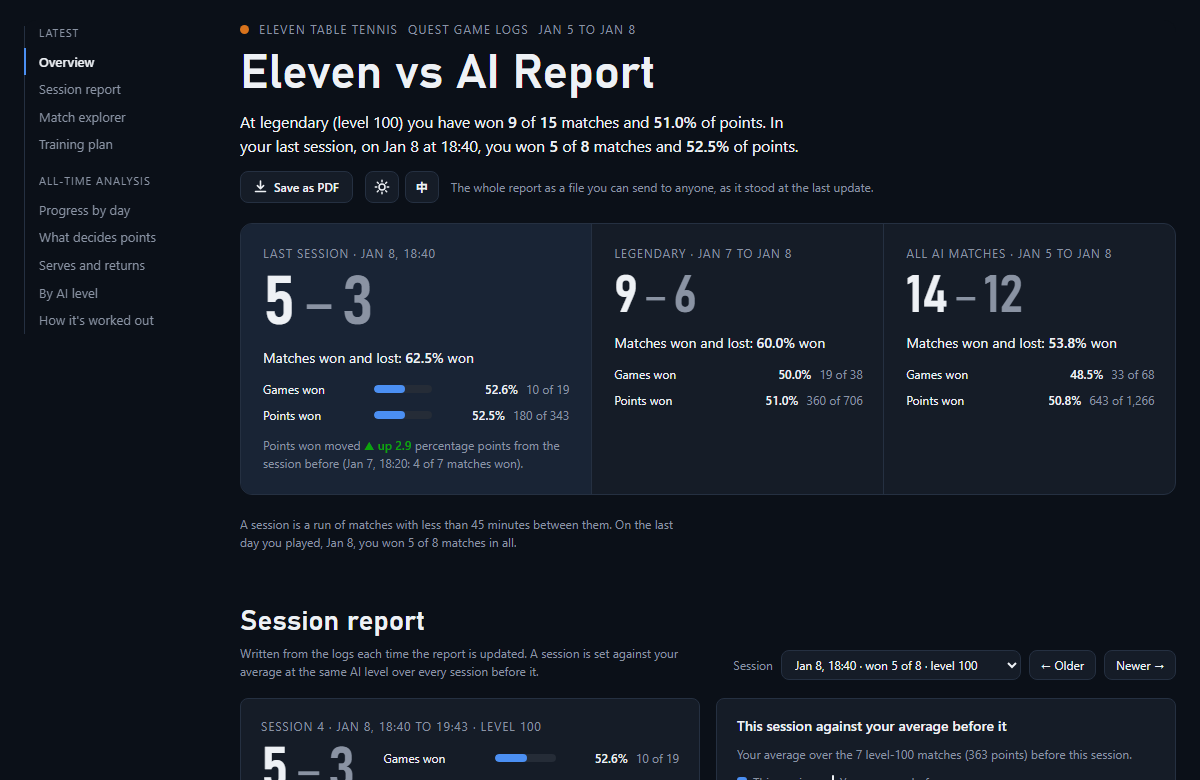
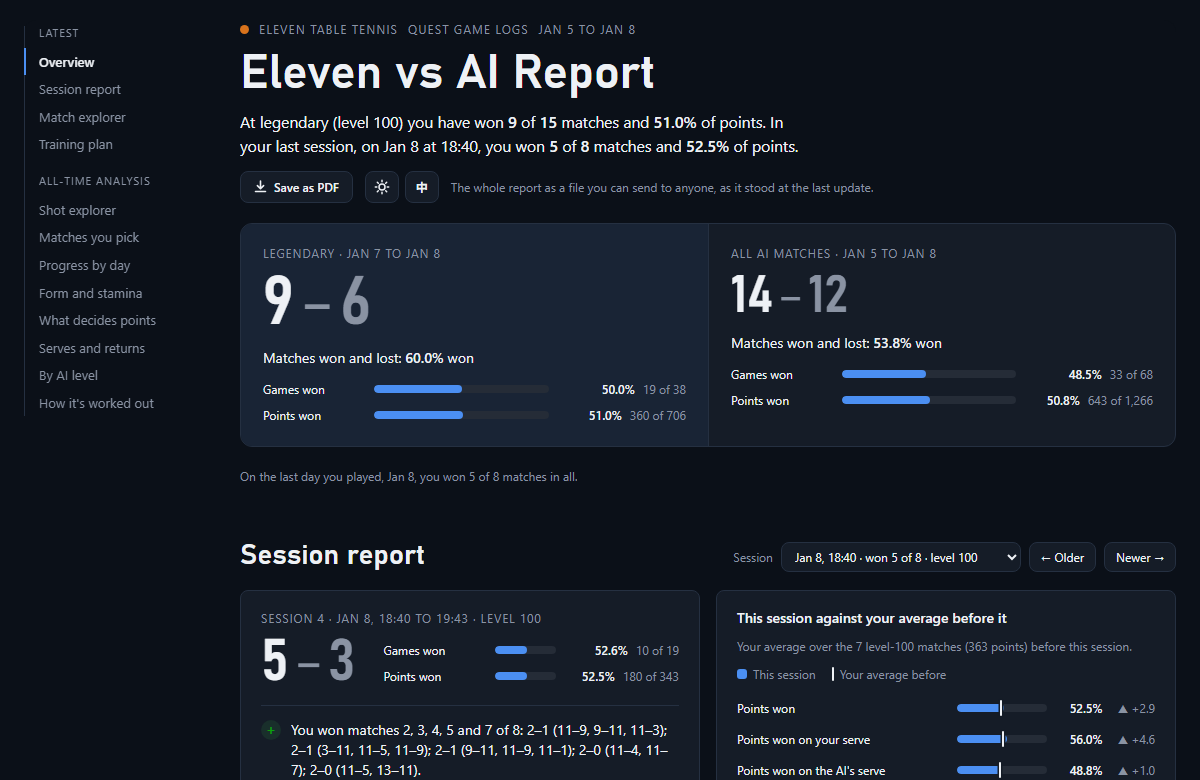
Project site: a current picture of the top of the page
The overview no longer has a last-session tile; the picture and its caption
now show the two totals and the session report below them.

diff --git a/pages/index.html b/pages/index.html
@@ -35,8 +35,8 @@
     </div>
     <p class="small">The demo is built from made-up matches against the AI, generated by the project itself.</p>
     <figure class="shot">
-      <img src="img/overview.png" width="1200" height="780" alt="The demo dashboard: the last session won 5 matches to 3, with 52.6% of games and 52.5% of points, next to level 100 and all-time totals.">
-      <figcaption>The overview: your last session, your main AI level and every match so far, with session and all-time win rates.</figcaption>
+      <img src="img/overview.png" width="1200" height="780" alt="The demo dashboard: 9 matches won and 6 lost at level 100, 14 won and 12 lost over every AI match, and below them the report on the last session, won 5 matches to 3.">
+      <figcaption>The top of the page: your main AI level and every match so far, then the report on your last session with session and all-time win rates.</figcaption>
     </figure>
   </div>
 
